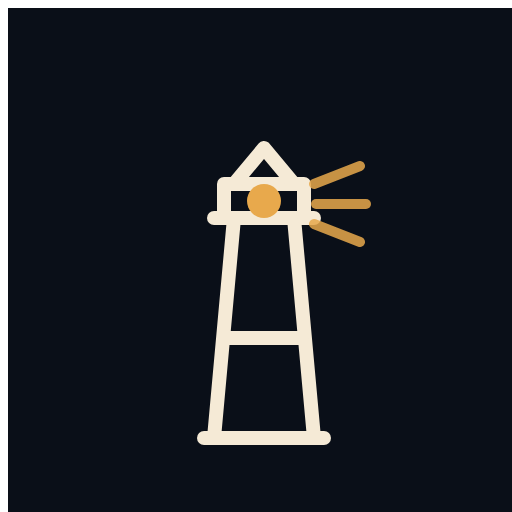
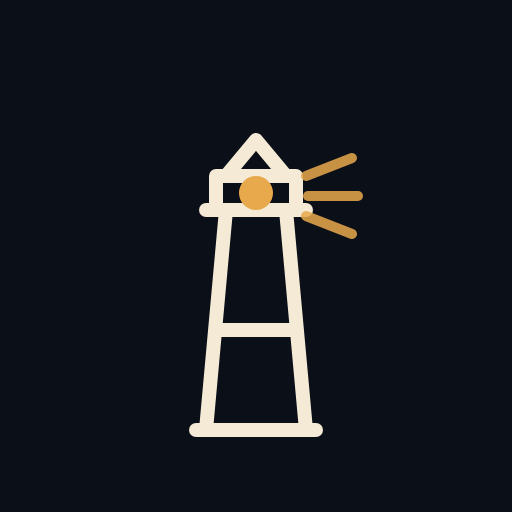
cycle 49b: margin-free lamp splash, navy canvas behind loader

Changed region(s): [[0.375, 0.25, 0.7188, 0.875], [0.0, 0.0, 1.0, 1.0]]

diff --git a/index.html b/index.html
@@ -78,7 +78,7 @@ body {
 		</style>
 		<link id="-gd-engine-icon" rel="icon" type="image/png" href="index.icon.png" />
 <link rel="apple-touch-icon" href="index.apple-touch-icon.png"/>
-<style>html,body{background:#0a0f18}#status{background-color:#0a0f18}#status-progress{width:230px;height:5px;border-radius:3px;-webkit-appearance:none;appearance:none}#status-progress::-webkit-progress-bar{background:#1c2740;border-radius:3px}#status-progress::-webkit-progress-value{background:#e8a94c;border-radius:3px}#status-progress::-moz-progress-bar{background:#e8a94c;border-radius:3px}</style>
+<style>html,body{background:#0a0f18}#status{background-color:#0a0f18}#status-progress{width:230px;height:5px;border-radius:3px;-webkit-appearance:none;appearance:none}#status-progress::-webkit-progress-bar{background:#1c2740;border-radius:3px}#status-progress::-webkit-progress-value{background:#e8a94c;border-radius:3px}#status-progress::-moz-progress-bar{background:#e8a94c;border-radius:3px}canvas{background:#0a0f18}</style>
 	</head>
 	<body>
 		<canvas id="canvas">
@@ -97,7 +97,7 @@ body {
 
 		<script src="index.js"></script>
 		<script>
-const GODOT_CONFIG = {"args":[],"canvasResizePolicy":2,"ensureCrossOriginIsolationHeaders":true,"executable":"index","experimentalVK":false,"fileSizes":{"index.pck":95776,"index.wasm":35376909},"focusCanvas":true,"gdextensionLibs":[]};
+const GODOT_CONFIG = {"args":[],"canvasResizePolicy":2,"ensureCrossOriginIsolationHeaders":true,"executable":"index","experimentalVK":false,"fileSizes":{"index.pck":95632,"index.wasm":35376909},"focusCanvas":true,"gdextensionLibs":[]};
 const GODOT_THREADS_ENABLED = false;
 const engine = new Engine(GODOT_CONFIG);
 

diff --git a/CYCLES.md b/CYCLES.md
@@ -617,3 +617,4 @@ Fix (perceptual + branding; wire bytes are CDN-bound):
 Verified: check-only clean; verify3 WON ok on new build; branded loader frame eyeballed (navy + lamp + amber bar at 3s under 200KB/s throttle); title screen intact after boot.
 Honest note: download time is unchanged (~41s at 1.6Mbps) - the wasm is the floor without a custom engine build. The wait now shows the game's own face instead of engine branding. Repeat visits revalidate after max-age=600 (304s when unchanged).
 Grade: PARTIAL (experience fixed, raw load time not reducible in scope)
+Follow-up within cycle 49: splash img is #status-splash stretched to viewport; regenerated icon.png with zero body margin (first render had an 8px white page margin baked in, visible as a white L-band). canvas{background:#0a0f18} also added. Final: pck 95,632; verify3 WON ok; branded first paint on live measured 0.83s under 200KB/s throttle (was: gray Godot splash after JS boot, ready at 45.2s).
